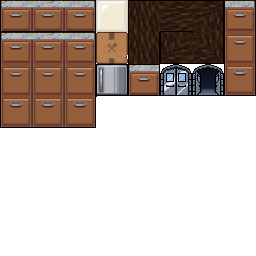
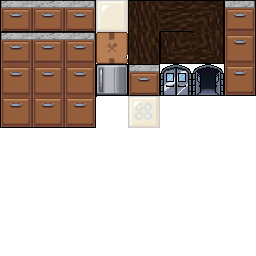
add: kitchen bcn flower

Changed region(s): [[0.5, 0.375, 0.625, 0.5]]

diff --git a/tools/make_flower_tile.py b/tools/make_flower_tile.py
@@ -1,0 +1,73 @@
+"""Adds the background tile with a flower to the kitchen tilesheet.
+
+    python tools/make_flower_tile.py
+
+writes tile 28 of art/kitchen/1stWorld.png and game/images/kitchen.png (the same image).
+It is the background tile (tile 3) with the flower tinted over it, so it keeps its
+bevel and its grain. The tint is very soft on purpose: a strong drawing would look
+like something the player can pick up. Run it again after editing FLOWER or the tint.
+
+The tile must be in freeTiles of KITCHEN (Levels.h) so the entities go through it.
+"""
+
+import os
+from PIL import Image
+
+ROOT = os.path.join(os.path.dirname(__file__), '..')
+SHEETS = ['art/kitchen/1stWorld.png', 'game/images/kitchen.png']
+
+TILE = 32
+COLUMNS = 8
+BACKGROUND_TILE = 3
+FLOWER_TILE = 28
+
+BLUE = (168, 206, 248)
+# How much of BLUE the drawing gets
+TINT = 0.42
+GLOSS = 0xe8  # Pixels with more blue than this are the shine of the tile, which stays over the flower
+
+# The flower of the pavement of Barcelona: only the groove is drawn, the petals keep the color of the tile
+FLOWER = [
+	'..####.....####..',
+	'.######...######.',
+	'###...##.##...###',
+	'##.....#.#.....##',
+	'##.....#.#.....##',
+	'##....#####....##',
+	'.##..##...##..##.',
+	'..####.....####..',
+	'.....#.....#.....',
+	'..####.....####..',
+	'.##..##...##..##.',
+	'##....#####....##',
+	'##.....#.#.....##',
+	'##.....#.#.....##',
+	'###...##.##...###',
+	'.######...######.',
+	'..####.....####..',
+]
+FLOWER_POS = (7, 7)
+
+
+def cell(tile):
+	x, y = tile % COLUMNS * TILE, tile // COLUMNS * TILE
+	return (x, y, x + TILE, y + TILE)
+
+
+def draw_flower(background):
+	tile = background.copy()
+	for y, row in enumerate(FLOWER):
+		for x, letter in enumerate(row):
+			pos = (FLOWER_POS[0] + x, FLOWER_POS[1] + y)
+			r, g, b, alpha = background.getpixel(pos)
+			if letter == '#' and b <= GLOSS:
+				tile.putpixel(pos, (round(r + (BLUE[0] - r) * TINT), round(g + (BLUE[1] - g) * TINT), round(b + (BLUE[2] - b) * TINT), alpha))
+	return tile
+
+
+for name in SHEETS:
+	path = os.path.join(ROOT, name)
+	sheet = Image.open(path).convert('RGBA')
+	sheet.paste(draw_flower(sheet.crop(cell(BACKGROUND_TILE))), cell(FLOWER_TILE)[:2])
+	sheet.save(path)
+	print('wrote', name)

diff --git a/game/src/Levels.h b/game/src/Levels.h
@@ -24,7 +24,7 @@ struct WorldInfo
 	MusicId music;                     // Background track of its levels
 };
 
-static const WorldInfo KITCHEN = { "images/kitchen.png", "images/kitchen_box_break.png", { 3, 1 }, { 5, 2 }, { 6, 2 }, { 3 }, MUSIC_KITCHEN };
+static const WorldInfo KITCHEN = { "images/kitchen.png", "images/kitchen_box_break.png", { 3, 1 }, { 5, 2 }, { 6, 2 }, { 3, 28 }, MUSIC_KITCHEN };
 static const WorldInfo FRIDGE = { "images/fridge.png", "images/fridge_box_break.png", { 6, 0 }, { 6, 4 }, { 6, 5 }, { 3, 4, 5, 11, 12, 13, 19, 20, 21 }, MUSIC_FRIDGE };
 // The tilesheet of the oven has no door (door and openDoor are empty cells): its level
 // ends when the boss dies
